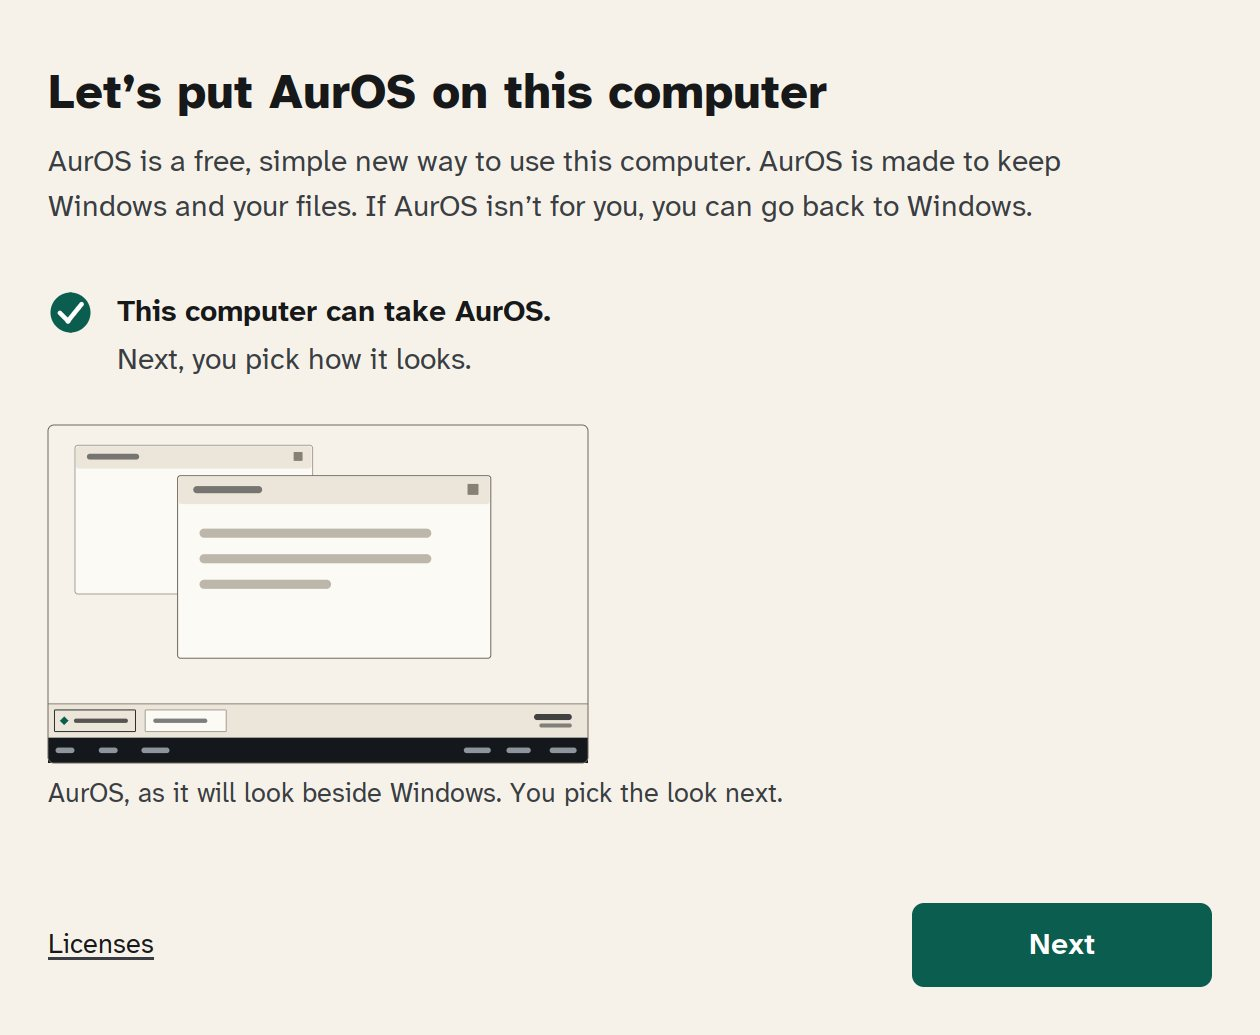
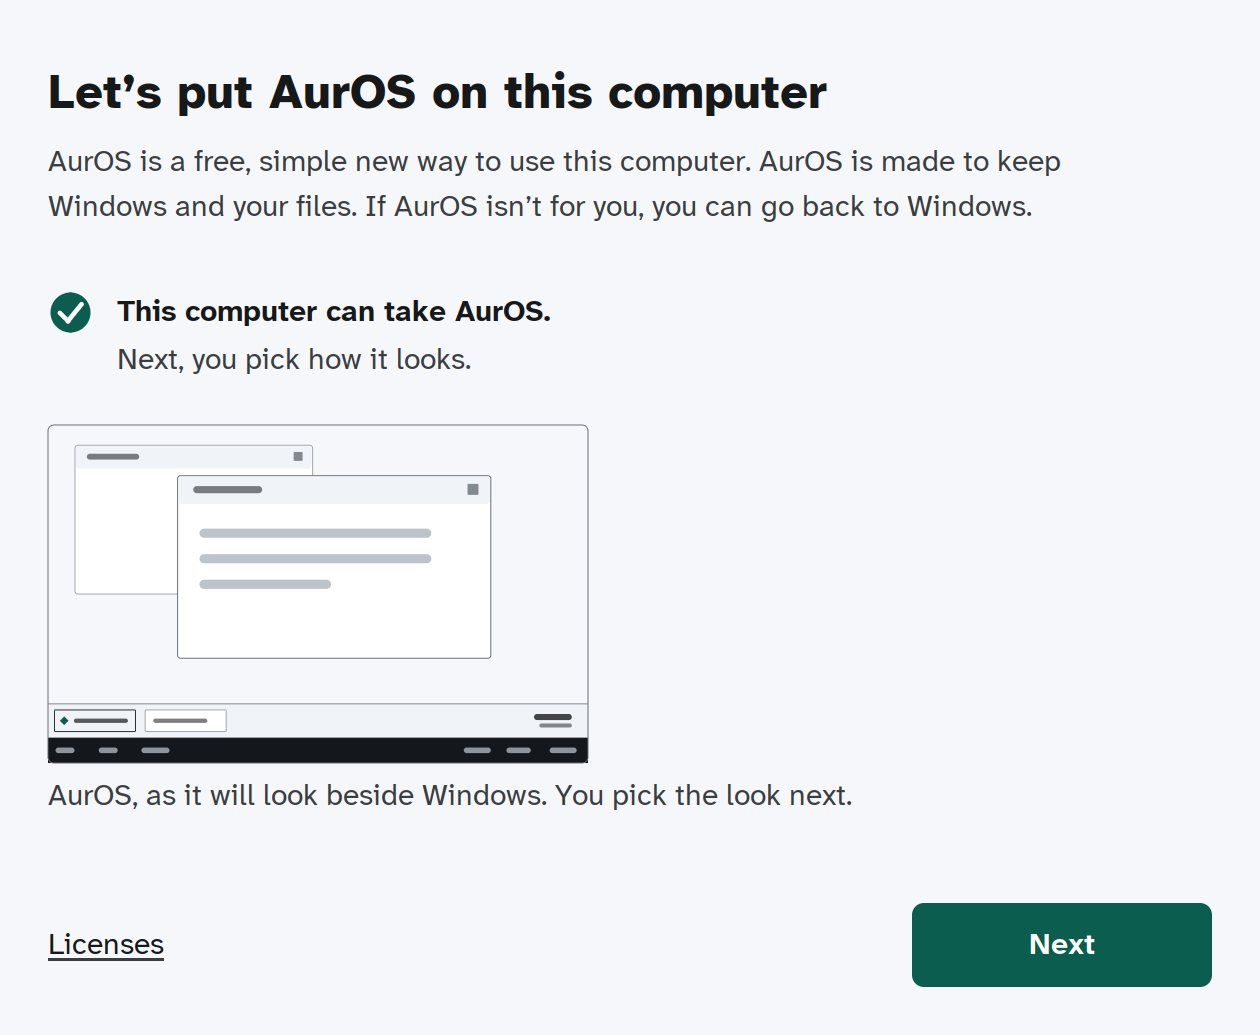
fix: report writes safely on a hostile or full stick, honest header, neutral stub words, fresh website pictures
stick-report: temp file made new (a planted link is not written through), only a file
with its closing line counts as saved, TERM cleans up the temp file, header no longer
promises no file names or serial numbers. answer.sh: a leftover report mount is let go
(or the report refused) before a new mount. lockctl stub says AurOS could not start,
not that it is gone. website pictures regenerated from the Sky wizard renders.
CAMPAIGN.md: nothing restarts by itself.

diff --git a/docs/results/hardware/CAMPAIGN.md b/docs/results/hardware/CAMPAIGN.md
@@ -91,7 +91,7 @@ report. That is how we learn how many real PCs are turned away, and why.
      me** and write down what it fixed (Fast Startup, space, BitLocker,
      waiting updates).
    - Pick a look. **Next**. **Install AurOS**. One bar and the time left.
-   - **Ready to restart**: it restarts by itself after 60 seconds.
+   - **Ready to restart**: nothing restarts by itself. Press **Restart now** (Restart later just puts the window away).
 4. **After the restart the screen shows text, not a desktop.** That is the
    installer. Do not switch off while it says *Making room on the Windows drive*.
 5. **Say out loud anything that confuses you.** If you hesitate more than ten
